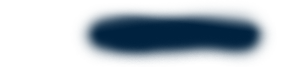
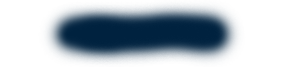
new shadow image

diff --git a/parallax-test/index.html b/parallax-test/index.html
@@ -1,0 +1,93 @@
+<!DOCTYPE html>
+<html lang="en">
+<head>
+  <meta charset="UTF-8">
+  <title>JS + CSS Clock</title>
+</head>
+<body>
+
+  <div class="parallax">
+    <div class="parallax-layer parallax-layer__1" data-parallax-disallow="y" data-parallax-deep="1000"></div>
+    <div class="parallax-layer parallax-layer__2" data-parallax-deep="40"></div>
+    <div class="parallax-layer parallax-layer__3" data-parallax-deep="100"></div>
+  </div>
+
+
+  <style>
+body{
+  margin:0;
+  padding:0;
+  box-sizing: border-box;
+  background:#edeff4;
+}
+.parallax{
+  width: 360px;
+  height: 300px;
+  position: relative;
+  overflow: hidden;
+}
+.parallax-layer{
+  position: absolute;
+  top: 0;
+  left: 0;
+  width: 100%;
+  height: 100%;
+  background-position: center;
+  background-repeat: no-repeat;
+  background-size: contain;
+    
+}
+.parallax-layer__1 {
+  background-image: url(https://raw.githubusercontent.com/Decodal/Amplyfi/master/1-bg.png);
+  background-size: cover;
+}
+.parallax-layer__2 {
+  background-image: url(https://raw.githubusercontent.com/Decodal/Amplyfi/master/1-shadow.png);
+}
+.parallax-layer__3 {
+  background-image: url(https://raw.githubusercontent.com/Decodal/Amplyfi/master/1-text.png);
+}
+  </style>
+
+  <script>
+
+function Parallax(options){
+    options = options || {};
+    this.nameSpaces = {
+        wrapper: options.wrapper || '.parallax',
+        layers: options.layers || '.parallax-layer',
+        deep: options.deep || 'data-parallax-deep'
+    };
+    this.init = function() {
+        var self = this,
+            parallaxWrappers = document.querySelectorAll(this.nameSpaces.wrapper);
+      	for(var i = 0; i < parallaxWrappers.length; i++){
+			(function(i){
+				parallaxWrappers[i].addEventListener('mousemove', function(e){
+					var x = e.clientX,
+						y = e.clientY,
+						layers = parallaxWrappers[i].querySelectorAll(self.nameSpaces.layers);
+					for(var j = 0; j < layers.length; j++){
+            (function(j){
+              var deep = layers[j].getAttribute(self.nameSpaces.deep),
+                  disallow = layers[j].getAttribute('data-parallax-disallow'),
+                  itemX = (disallow && disallow === 'x') ? 0 : x / deep,
+                  itemY = (disallow && disallow === 'y') ? 0 : y / deep;
+                  if(disallow && disallow === 'both') return;
+                  layers[j].style.transform = 'translateX(' + itemX + '%) translateY(' + itemY + '%)';
+            })(j);  
+					}
+				})
+			})(i);
+      	}
+    };
+    this.init();
+    return this;
+}
+
+window.addEventListener('load', function(){
+    new Parallax();
+});
+  </script>
+</body>
+</html>
